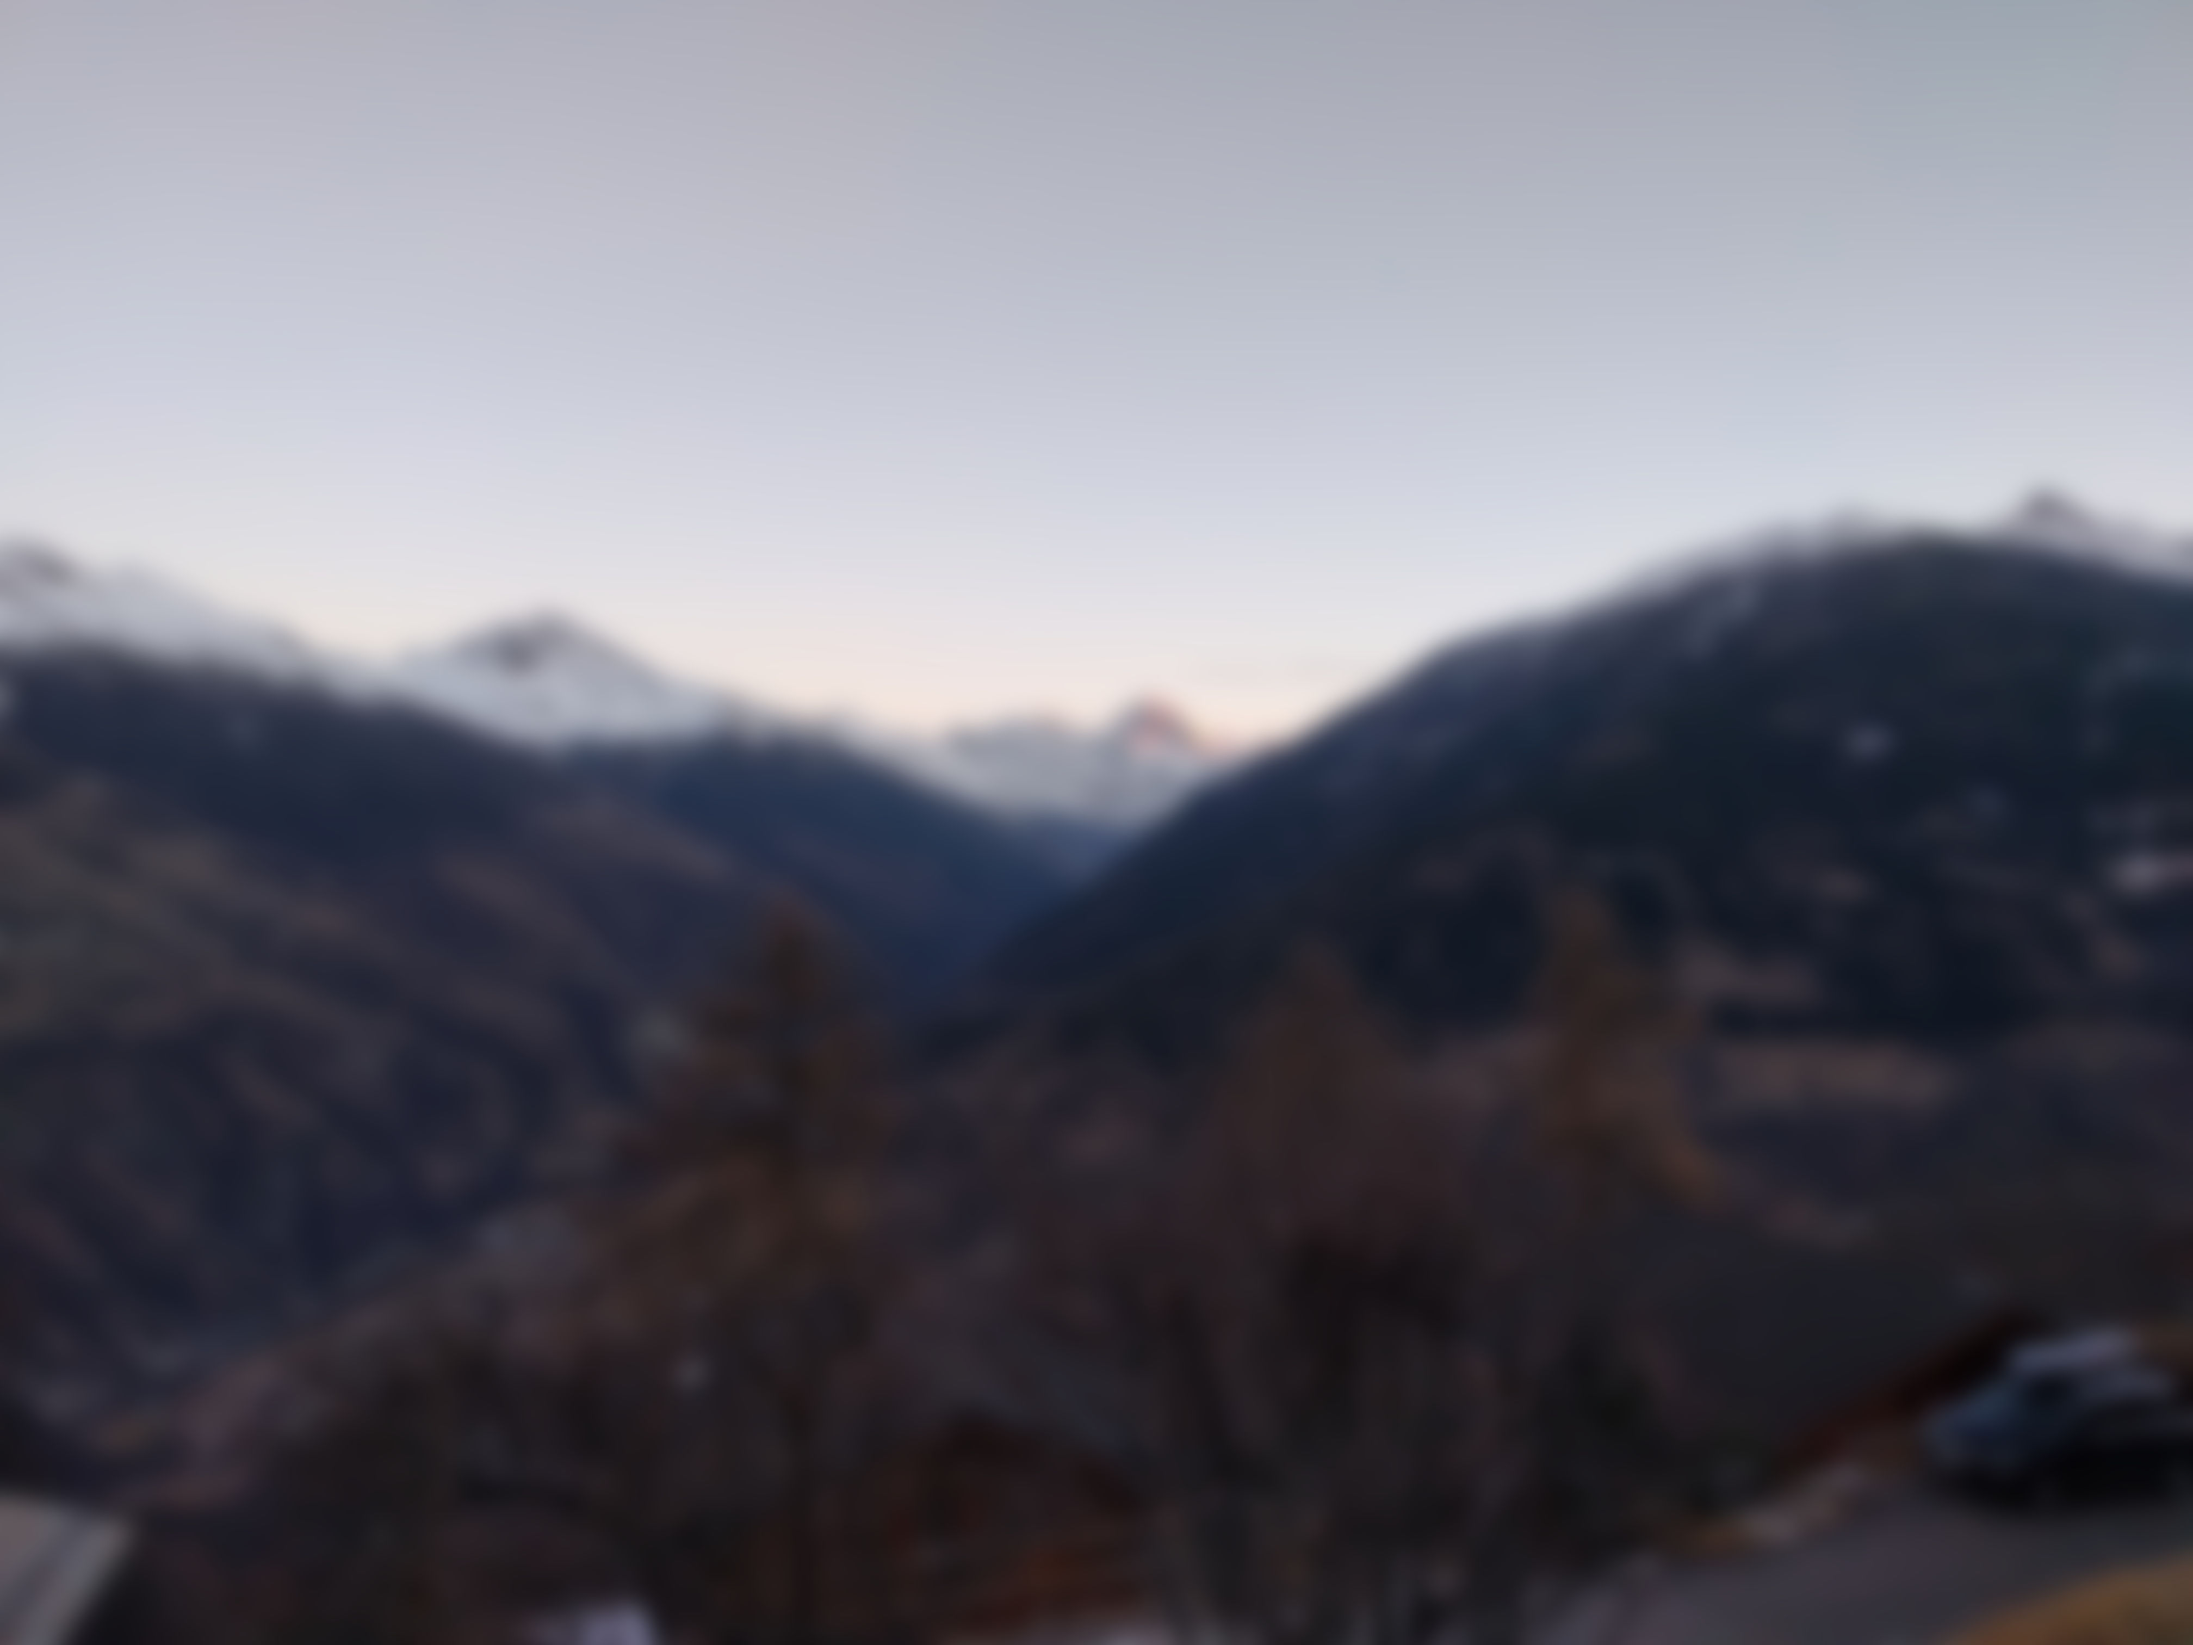
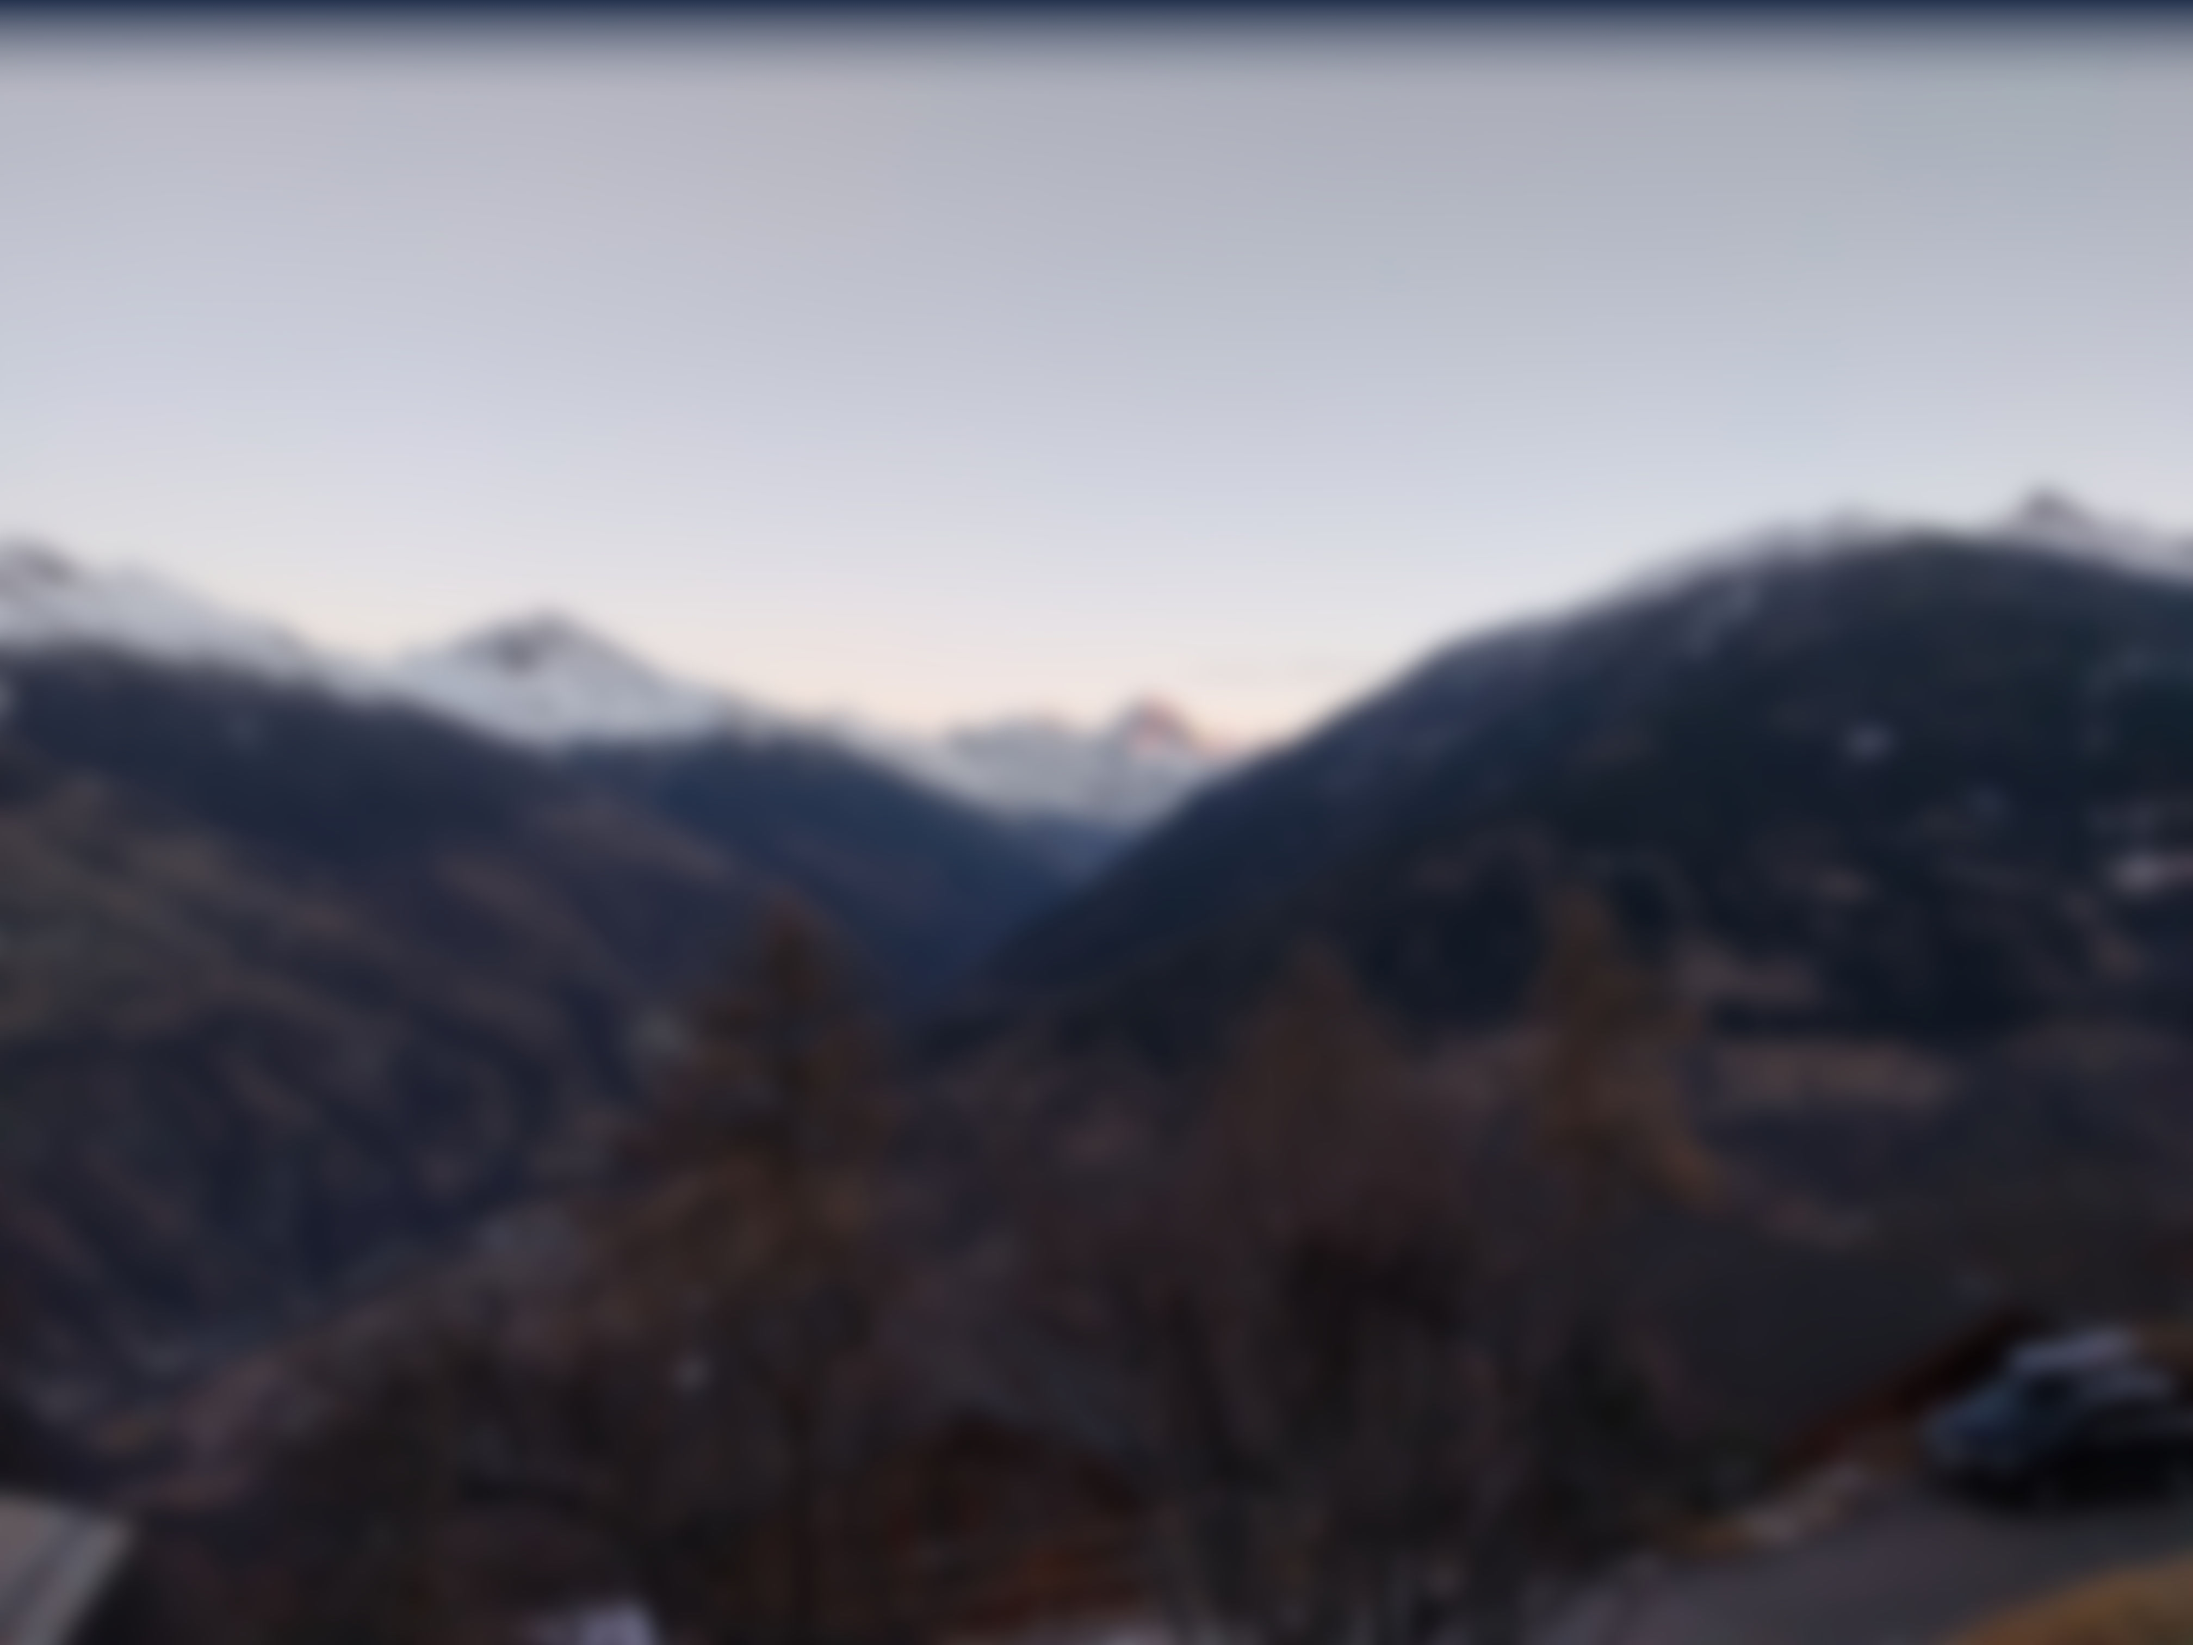
Implement login and logout with session.

Changed region(s): [[0.0, 0.0, 1.0, 0.0622]]

diff --git a/routes/index.js b/routes/index.js
@@ -1,15 +1,86 @@
 var express = require('express');
 var router = express.Router();
-var applicationName = "Swipe.Me";
+var request = require('request');
+var session = require('express-session');
+var request = require('request');
+var session = require('express-session');
+
+const CLIENT_ID = "ba3659e9c0974ab39393e07eb031e05d";
+const CLIENT_SECRET = "d2e338bbc4b8440abd2dc6a952166c0a";
+const APPLICATION_URL = "http://localhost:3028";
+const APPLICATION_NAME = "Swipe.Me";
 
 /* GET home page. */
 router.get('/', function(req, res) {
-  res.render('index', { title: applicationName });
+    // Get error if there is one.
+    var error = req.query.error;
+
+    // Send username or 'undefined' to the view, depending on the user's connection
+    // status. Also send an error if there is one.
+    res.render('index', {
+        title: APPLICATION_NAME,
+        appplicationUrl: APPLICATION_URL,
+        username: req.session.username,
+        error: error
+    });
+});
+
+// This request is where the Instagram API will send the code generated for the
+// user who accepted to share its data with the application.
+router.get('/auth', function(req, res) {
+    // Get Instagram API's generated code if exists.
+    var code = req.query.code;
+    // Get error if there is one.
+    var error = req.query.error;
+
+    // Redirects back the user with an error, if something wrong happend.
+    if (error) {
+        res.redirect('/?error=true');
+    }
+    // If we successfully received a code, requests the access token to the API.
+    else if (code) {
+        var data = {
+            client_id: CLIENT_ID,
+            client_secret: CLIENT_SECRET,
+            grant_type: "authorization_code",
+            redirect_uri: APPLICATION_URL + "/auth",
+            code: code
+        };
+
+        request.post({url: 'https://api.instagram.com/oauth/access_token', form: data}, function(error, result, body) {
+            if (error) {
+                res.redirect('/?error=true');
+            }
+
+            // Try to parse result to get access token and username.
+            try {
+                var jsonResult = JSON.parse(body);
+                // Save access token and username in the current session.
+                req.session.accessToken = jsonResult.access_token;
+                req.session.username = jsonResult.user.username;
+                res.redirect('/');
+            }
+            catch (e) {
+                console.log(e);
+                res.redirect('/?error=true');
+            }
+        });
+    }
+    // The request must have parameters otherwise we redirect back the user.
+    else {
+        res.redirect('/');
+    }
+})
+
+// Logout the connected user.
+router.get('/logout', function(req, res) {
+    req.session.destroy();
+    res.redirect('/');
 });
 
 /* GET policy page. */
 router.get('/policy', function(req, res) {
-  res.render('policy', { title: 'Policy', applicationName: applicationName });
+    res.render('policy', { title: 'Policy', applicationName: APPLICATION_NAME });
 });
 
-module.exports = router;
+module.exports = {router, session};

diff --git a/public/css/style.css b/public/css/style.css
@@ -13,6 +13,29 @@ body {
     text-align: center;
 }
 
+.status-bar {
+    color: white;
+    top: 0;
+    left: 0;
+    padding: 10px 20px;
+    position: fixed;
+    text-align: right;
+    width: 100%;
+}
+
+.username-link {
+    color: #E7DFDC;
+    font-weight: bold;
+}
+
+.username-link:hover, .username-link:focus, .username-link:active {
+    color: #E7DFDC;
+}
+
+.btn-disconnect {
+    margin-left: 10px;
+}
+
 .title {
     color: white;
     font-family: 'Raleway', sans-serif;
@@ -20,6 +43,16 @@ body {
     font-weight: bold;
     margin-bottom: 12px;
     text-shadow: 0 0 5px rgba(0, 0, 0, 0.2);
+}
+
+.error {
+    box-shadow: 1px 1px 5px rgba(0, 0, 0, 0.4);
+    margin: 50px auto;
+    width: 800px;
+}
+
+.error-content {
+    padding: 20px;
 }
 
 .header {
@@ -30,6 +63,10 @@ body {
     margin: auto;
     padding: 20px;
     width: 800px;
+}
+
+.header-not-connected {
+    margin-top: 50px;
 }
 
 .policy-header {
@@ -176,6 +213,6 @@ body {
     text-decoration: underline;
 }
 
-.policy-link:hover, .policy-link:active {
+.policy-link:hover, .policy-link:focus, .policy-link:active {
     color: #ACADBA;
 }

diff --git a/app.js b/app.js
@@ -28,8 +28,15 @@ app.use(bodyParser.urlencoded({
 }));
 app.use(cookieParser());
 app.use(express.static(path.join(__dirname, 'public')));
+// Set session of 10 minutes.
+app.use(routes.session({
+    secret: 'KJD9UIcn93iD$93#awZ',
+    resave: true,
+    saveUninitialized: false,
+    cookie: {maxAge: 600000}
+}));
 
-app.use('/', routes);
+app.use('/', routes.router);
 
 /// catch 404 and forward to error handler
 app.use(function(req, res, next) {
@@ -64,6 +71,5 @@ app.use(function(err, req, res, next) {
         title: 'error'
     });
 });
-
 
 module.exports = app;

diff --git a/public/js/app.js b/public/js/app.js
@@ -3,8 +3,7 @@
         .controller("PageController", function($scope) {
             // Indicates the maximum number of displayed pictures at the same time.
             const MAX_IMAGES = 3;
-            // Indicates whether the user is currently connected or not.
-            $scope.isConnected = true;
+
             $scope.isMouseOverPicture = false;
             $scope.isMouseOverNote = false;
             $scope.isPictureRejected = false;
